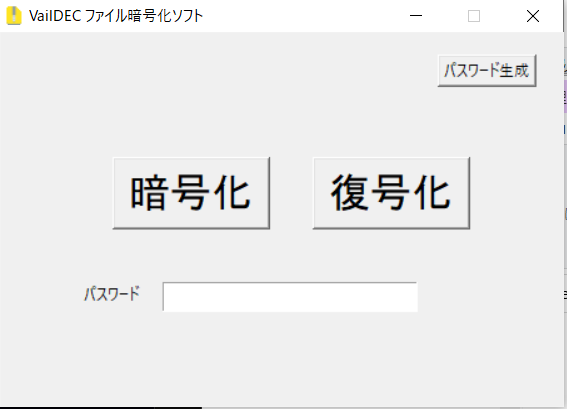
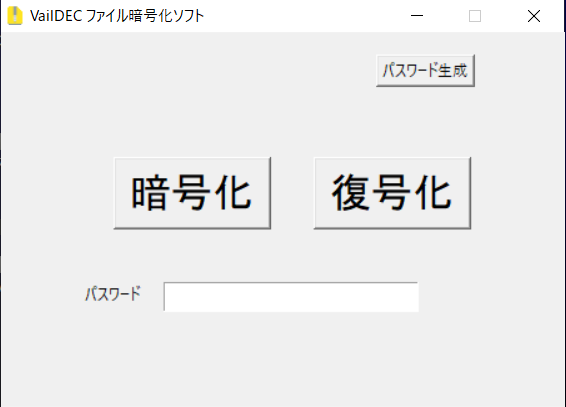
ラベルの文字を変更

diff --git a/sources/VailDEC.py b/sources/VailDEC.py
@@ -199,12 +199,15 @@ window.iconbitmap(iconfile)
 window.attributes("-topmost", False)
 txt = tkinter.Entry(font=("",15),show='*')
 txt.place(x=130, y=200)
-label2 = ttk.Label(window, text='パスワード')
-label2.place(x=65, y=200)
+#label2 = ttk.Label(window, text='パスワード')
+#label2.place(x=65, y=200)
 
 # ボタンの追加と配置
 btn4 = tkinter.Button(window, text="パスワード生成",command = btn04)
 btn4.place(x=300, y=18)
+
+label3 = ttk.Label(window, text='パスワードを下に入力してからボタンを押してください')
+label3.place(x=101, y=180)
 
 btn = tkinter.Button(window, text="暗号化",command = btn,font=("", 25))
 btn.place(x=90, y=100)
